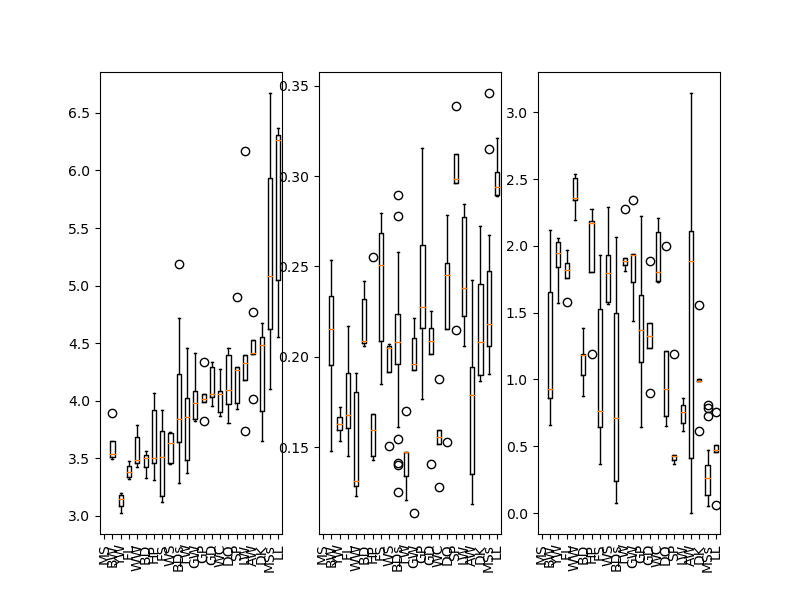
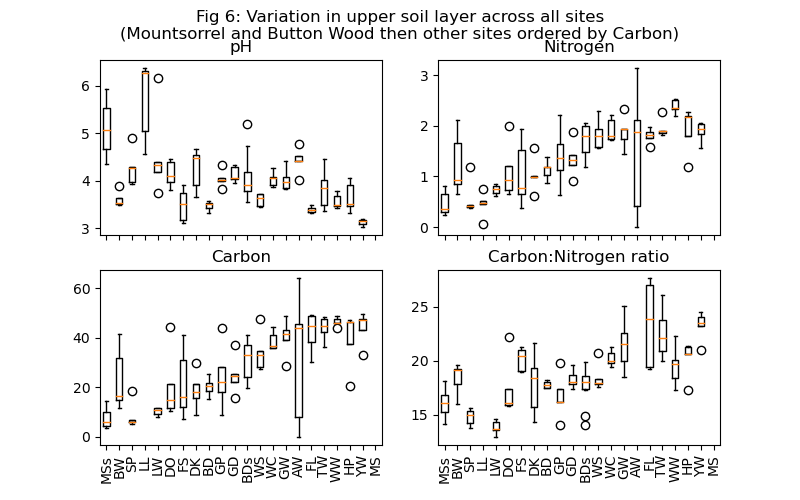
sandbox.. working soil analysis

diff --git a/soil_data.py b/soil_data.py
@@ -4,26 +4,42 @@ import numpy as np
 from matplotlib.backends.backend_agg import FigureCanvasAgg as FigureCanvas
 from matplotlib.figure import Figure
 
+# ====================================================================
 # config
 filename = r'data\all_soil_data.csv'
 SITE = 'site'
-RANK_MEASURE = 'pH'
+INDEX = 'sample'
+
+# this is for ordering the sites
+RANK_MEASURE = 'C'
 rank_function = np.median  # any numpy aggregate function
 ASCENDING = True  # change the direction
-INDEX = 'sample'
-chart_columns = ['pH', 'Mass_g', 'N', 'C', 'Nmg', 'H', 'CN', 'wt_g']
-number_of_plots = 3
-chart_columns = chart_columns[:number_of_plots]
+
+# charting
+figure_height = 5
+aspect_ratio = 1.6
+all_chart_columns = ['pH', 'Mass_g', 'N', 'C', 'Nmg', 'H', 'CN', 'wt_g']
+chart_columns = ['pH', 'N', 'C', 'CN']
+chart_titles = {'pH': 'pH',
+                'N': 'Nitrogen',
+                'C': 'Carbon',
+                'CN': 'Carbon:Nitrogen ratio'}
+chart_config = 2, 2
+primary_site_keys = ['MSs', 'BW']
+figure_title = 'Fig 6: Variation in upper soil layer across all sites\n' \
+               f'(Mountsorrel and Button Wood then other sites ordered by {chart_titles[RANK_MEASURE]})'
+# ====================================================================
 
 # load the data into a dataframe and set the primary key
 df = pd.read_csv(filename)
 df.set_index(keys=INDEX, inplace=True)
 
+# only interested in a subset of the data
+mask = df['LAYER'] == 1
+df = df[mask]
+
 # get a unique list of all sites
 all_sites = list(df[SITE].unique())
-
-# there are two sites that should always be presented first
-primary_site_keys = ['MS', 'BW']
 
 # calculate the values we're going to rank by; this is all sites for now
 rank_values = df[[SITE, RANK_MEASURE]].groupby(by=SITE).agg(rank_function)
@@ -44,13 +60,20 @@ for k in all_site_list:
     site_dict[k] = df[mask]
 
 # chart it
-fig = Figure(figsize=(8, 6))
+fig = Figure(figsize=(figure_height * aspect_ratio, figure_height))
 FigureCanvas(fig)
 
+axes_dict = {}
 for i, c in enumerate(chart_columns):
-    ax = fig.add_subplot(1, number_of_plots, i+1)
-    ax.boxplot([df[c].values for df in site_dict.values()])
-    ax.set_xticklabels(site_dict.keys(), rotation=90)
+    axes_dict[c] = fig.add_subplot(*chart_config, i + 1)
+    axes_dict[c].boxplot([df[c].values for df in site_dict.values()])
+    axes_dict[c].set_title(chart_titles[c])
+    axes_dict[c].set_xticklabels(site_dict.keys(), rotation=90)
 
+for c in ['pH', 'N']:
+    axes_dict[c].set_xticklabels([])
+
+
+fig.suptitle(figure_title)
 fig.savefig('soil_boxplot')
 pass
